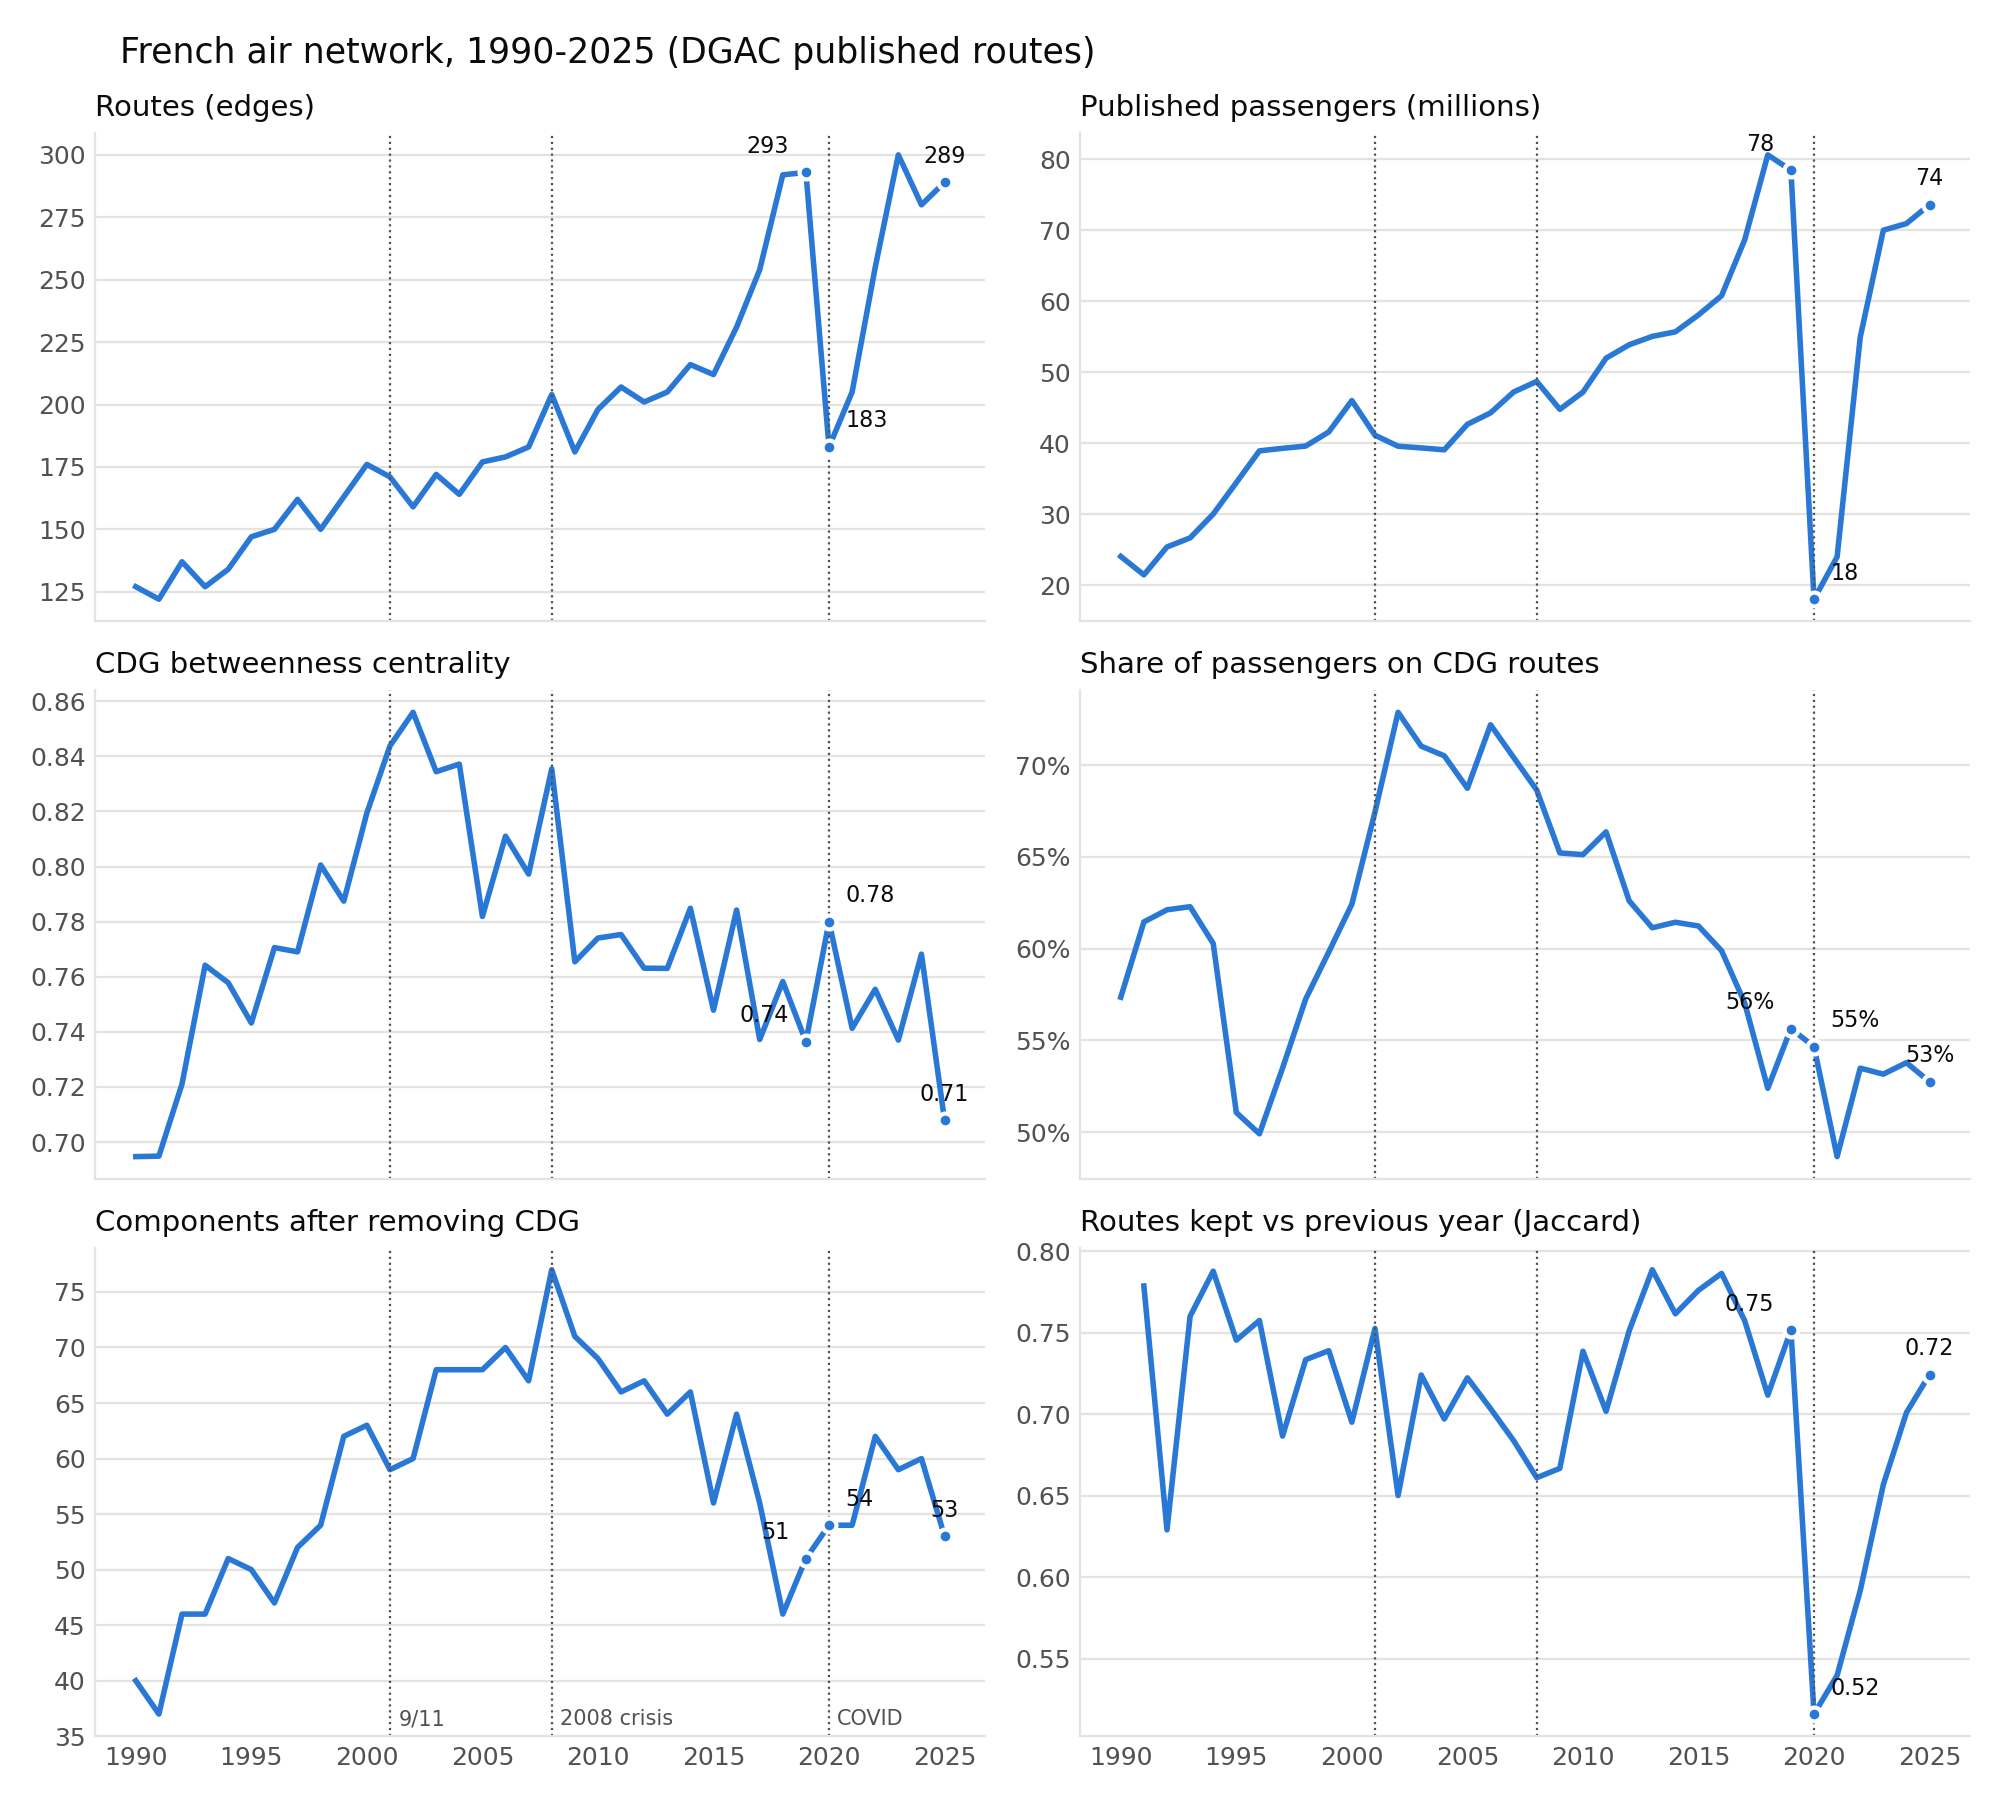
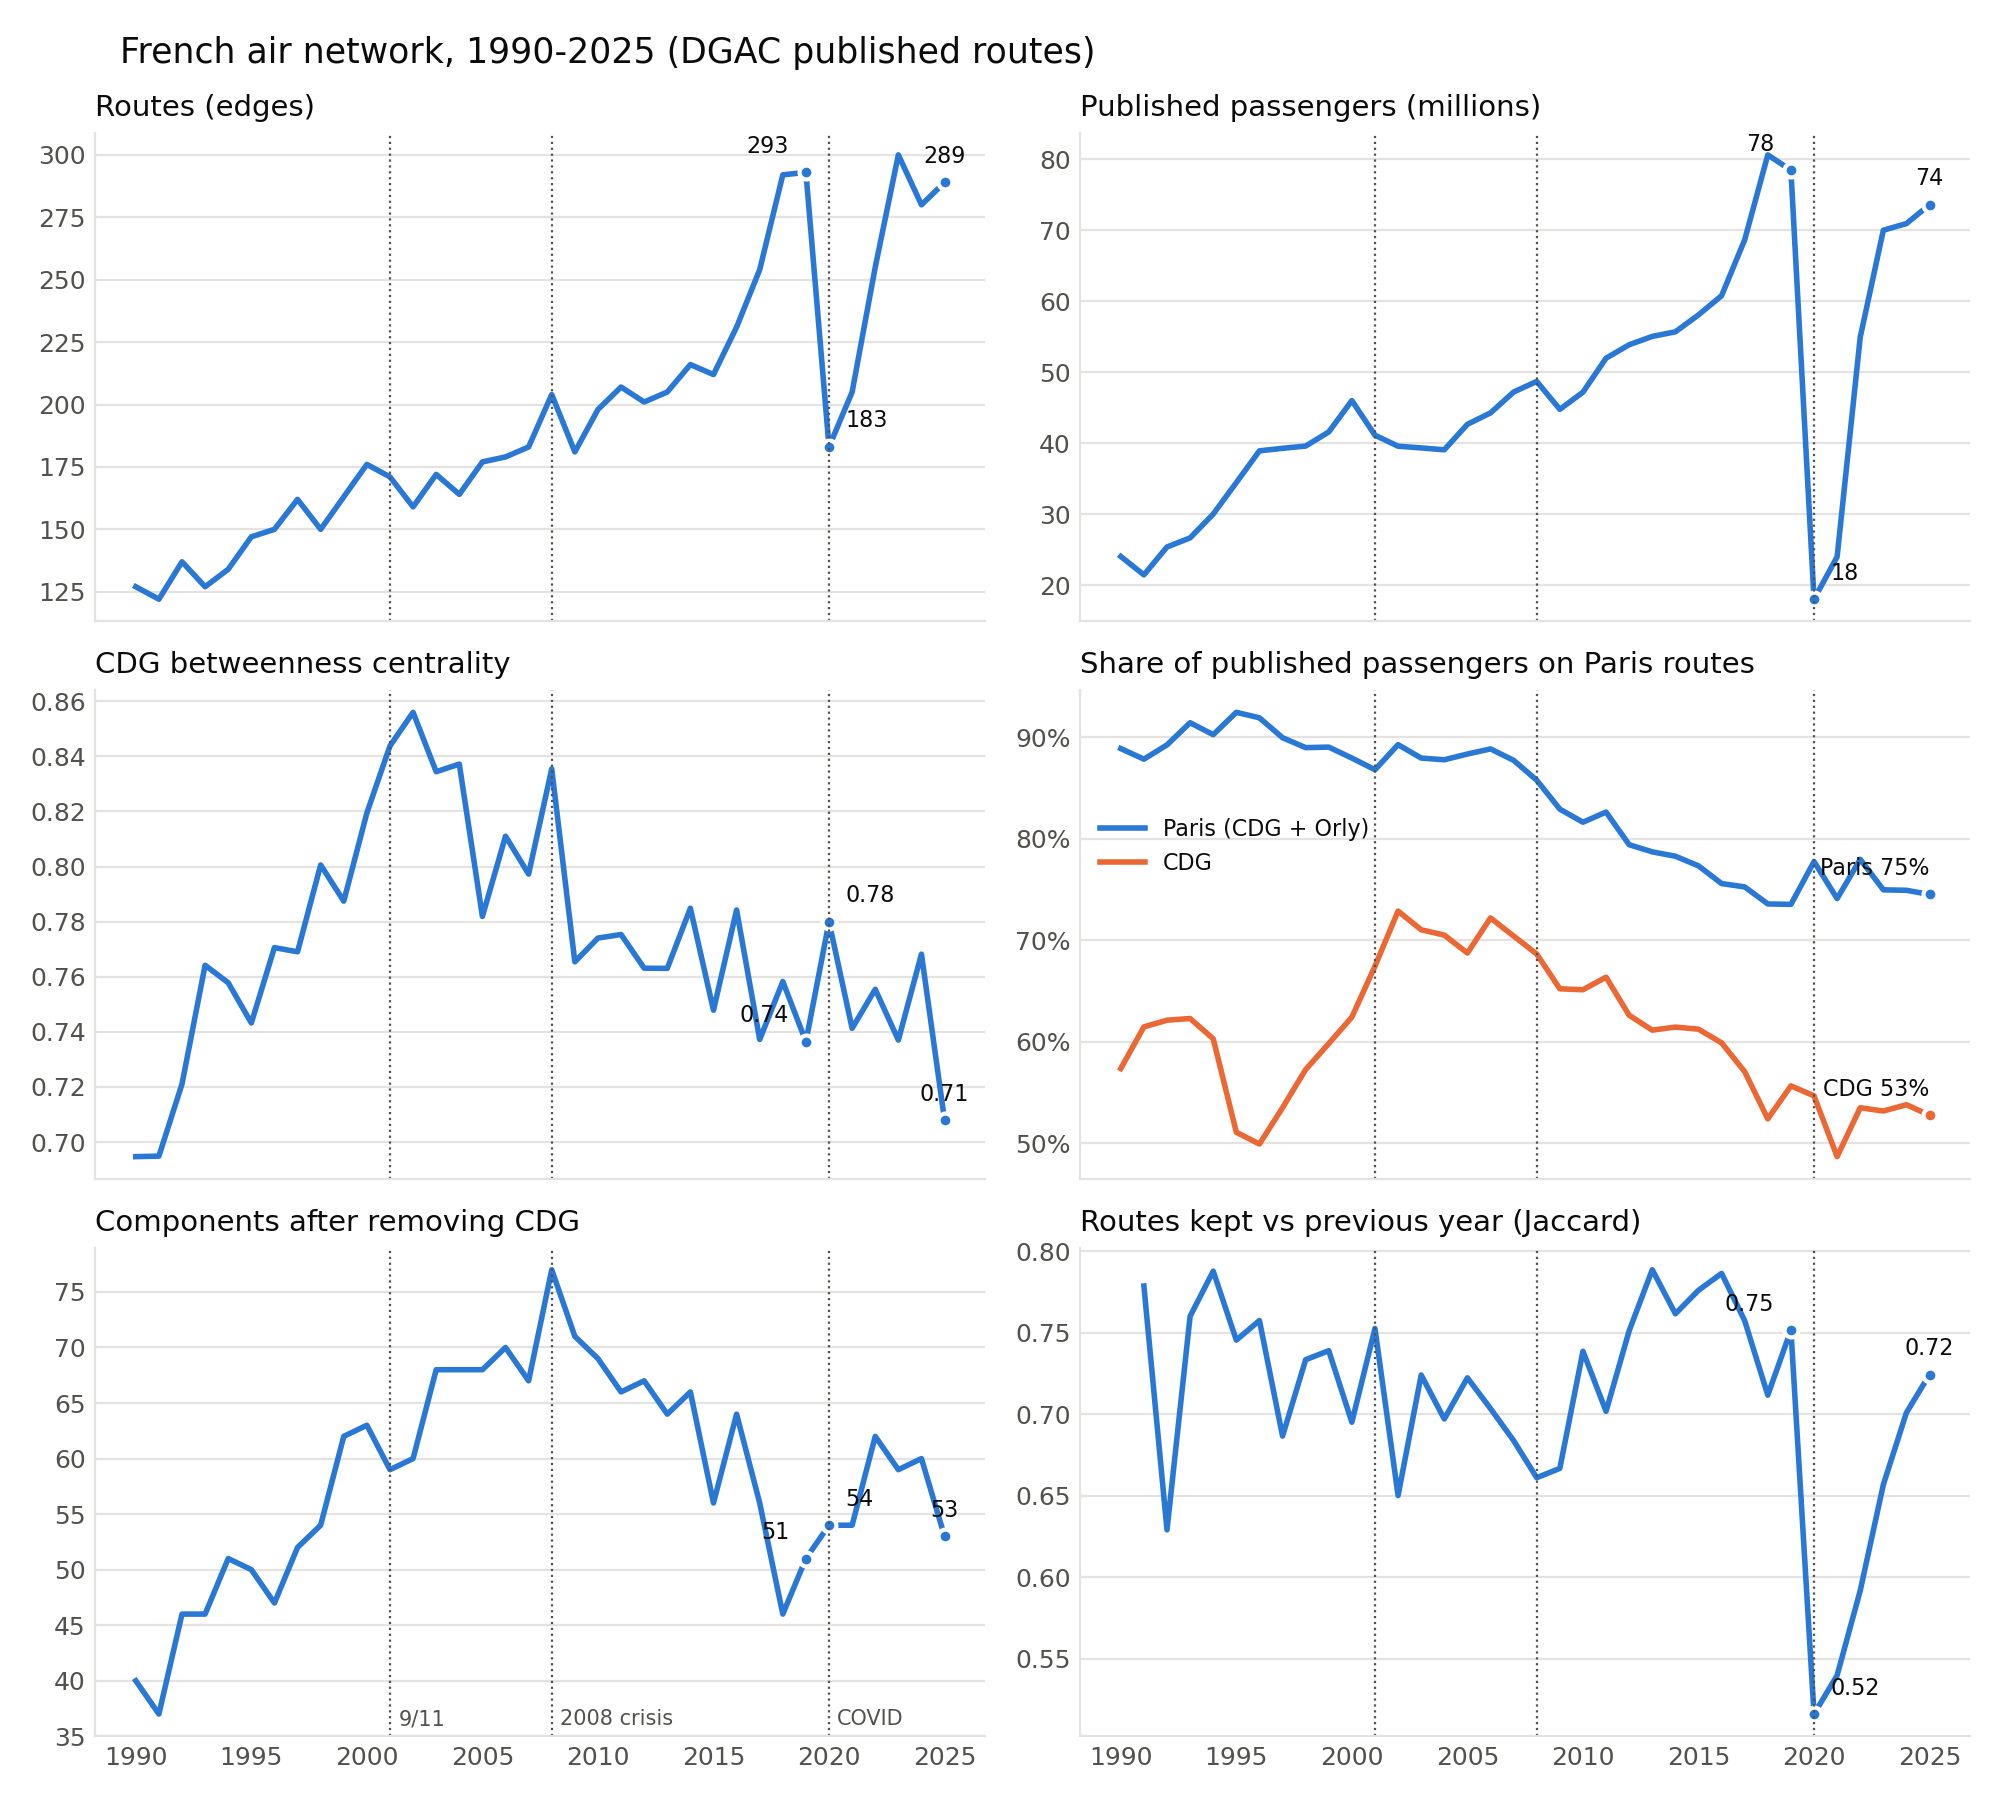
Show Paris (CDG + Orly) passenger share next to CDG in time series figure

diff --git a/src/time_series.py b/src/time_series.py
@@ -98,22 +98,62 @@ PANELS = [
     ("edges", "Routes (edges)", "{:.0f}"),
     ("passengers_m", "Published passengers (millions)", "{:.0f}"),
     ("cdg_betweenness", "CDG betweenness centrality", "{:.2f}"),
-    ("cdg_passenger_share", "Share of passengers on CDG routes", "{:.0%}"),
+    # two series, same unit: one axis, legend + direct end labels
+    ([("paris_passenger_share", "Paris (CDG + Orly)"),
+      ("cdg_passenger_share", "CDG")],
+     "Share of published passengers on Paris routes", "{:.0%}"),
     ("components_without_cdg", "Components after removing CDG", "{:.0f}"),
     ("edge_jaccard", "Routes kept vs previous year (Jaccard)", "{:.2f}"),
 ]
 INK = "#0b0b0b"
 INK_2 = "#52514e"
 SERIES = "#2a78d6"
+SERIES_2 = "#eb6834"
 GRID = "#e4e3df"
 EVENTS = {2001: "9/11", 2008: "2008 crisis", 2020: "COVID"}
+
+
+def _marker(ax, x, y, color):
+    ax.plot(x, y, "o", color=color, markersize=5,
+            markeredgecolor="white", markeredgewidth=1.5)
+
+
+def _plot_single(ax, s: pd.Series, fmt: str) -> None:
+    ax.plot(s.index, s.values, color=SERIES, linewidth=2)
+    # direct labels on the years the report compares: 2019 (left of its
+    # point), 2020 and the last year (right of theirs)
+    for year, dx, ha in ((2019, -6, "right"), (2020, 6, "left"),
+                         (s.index.max(), 0, "center")):
+        if year in s.index:
+            _marker(ax, year, s[year], SERIES)
+            ax.annotate(fmt.format(s[year]), (year, s[year]),
+                        textcoords="offset points", xytext=(dx, 7),
+                        ha=ha, fontsize=8, color=INK)
+
+
+def _plot_multi(ax, df: pd.DataFrame, cols, fmt: str) -> None:
+    # several series sharing one unit: legend, plus the last value labelled
+    # with the series name so identity never rests on colour alone
+    for (col, name), color in zip(cols, (SERIES, SERIES_2)):
+        s = df[col].dropna()
+        ax.plot(s.index, s.values, color=color, linewidth=2, label=name)
+        last = s.index.max()
+        _marker(ax, last, s[last], color)
+        ax.annotate(f"{name.split(' ')[0]} {fmt.format(s[last])}",
+                    (last, s[last]), textcoords="offset points",
+                    xytext=(0, 7), ha="right", fontsize=8, color=INK)
+    # placed in the empty band between the two lines (early 1990s)
+    ax.legend(loc="center left", bbox_to_anchor=(0, 0.68), fontsize=8,
+              frameon=False, labelcolor=INK)
 
 
 def plot(df: pd.DataFrame, path: Path) -> None:
     fig, axes = plt.subplots(3, 2, figsize=(10, 9), sharex=True)
     for ax, (col, title, fmt) in zip(axes.flat, PANELS):
-        s = df[col].dropna()
-        ax.plot(s.index, s.values, color=SERIES, linewidth=2)
+        if isinstance(col, list):
+            _plot_multi(ax, df, col, fmt)
+        else:
+            _plot_single(ax, df[col].dropna(), fmt)
         ax.set_title(title, loc="left", fontsize=10.5, color=INK)
         ax.grid(axis="y", color=GRID, linewidth=0.8)
         ax.set_axisbelow(True)
@@ -127,16 +167,6 @@ def plot(df: pd.DataFrame, path: Path) -> None:
         )
         for year in EVENTS:
             ax.axvline(year, color=INK_2, linewidth=0.8, linestyle=":")
-        # direct labels on the years the report compares: 2019 (left of its
-        # point), 2020 and the last year (right of theirs)
-        for year, dx, ha in ((2019, -6, "right"), (2020, 6, "left"),
-                             (s.index.max(), 0, "center")):
-            if year in s.index:
-                ax.plot(year, s[year], "o", color=SERIES, markersize=5,
-                        markeredgecolor="white", markeredgewidth=1.5)
-                ax.annotate(fmt.format(s[year]), (year, s[year]),
-                            textcoords="offset points", xytext=(dx, 7),
-                            ha=ha, fontsize=8, color=INK)
     for year, label in EVENTS.items():
         axes[-1, 0].annotate(label, (year, 0), xycoords=("data", "axes fraction"),
                              xytext=(3, 4), textcoords="offset points",
